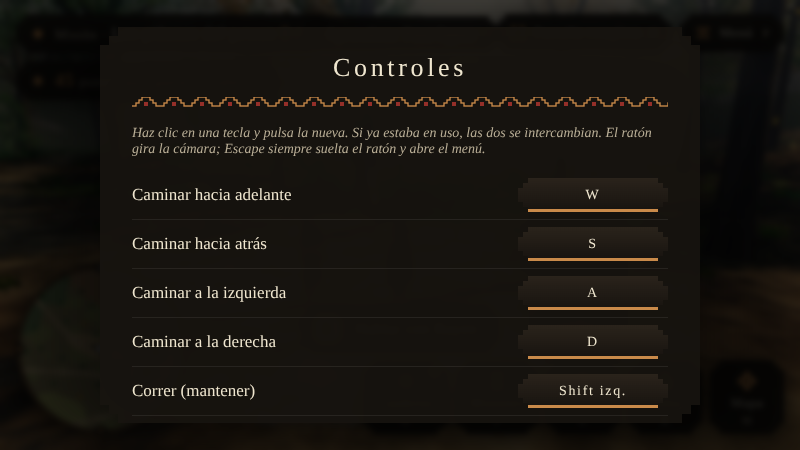
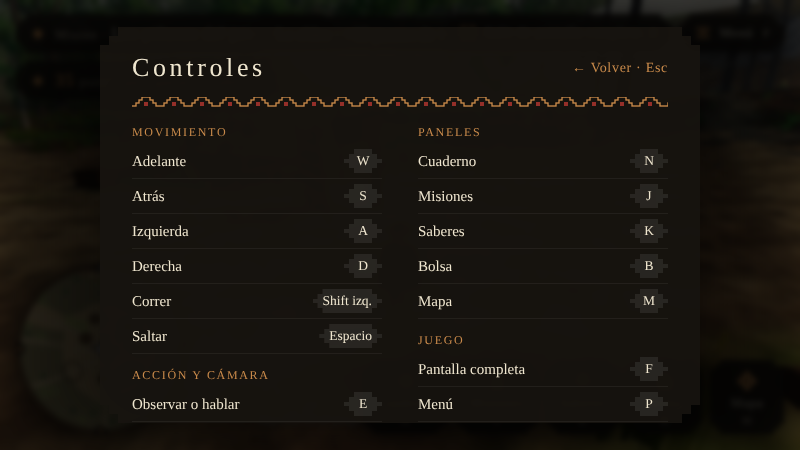
Controles más simples y Escape que retrocede un nivel
La página de controles pasa a dos columnas con una línea por acción y la tecla como
una tecla pequeña. Escape vuelve de Controles al menú, del menú al juego y cierra los
paneles; al elegir una tecla, cancela.

Claude-Session: https://claude.ai/code/session_014kb8iuWt13Nr2guzxgq7A9

diff --git a/src/main.js b/src/main.js
@@ -59,18 +59,22 @@ function enter() {
 // ---------- opciones (se guardan en este navegador) ----------
 const opts = Object.assign({ calidad: 'auto', detalle: '1', sens: 1, inv: false, mini: true }, JSON.parse(localStorage.getItem('leftraru.opciones') || '{}'));
 // teclas: cada acción tiene una tecla que se puede cambiar en Menú → Controles
-const ACTIONS = [['adelante', 'Caminar hacia adelante', 'KeyW'], ['atras', 'Caminar hacia atrás', 'KeyS'], ['izquierda', 'Caminar a la izquierda', 'KeyA'], ['derecha', 'Caminar a la derecha', 'KeyD'], ['correr', 'Correr (mantener)', 'ShiftLeft'], ['saltar', 'Saltar', 'Space'],
-  ['observar', 'Observar o hablar', 'KeyE'], ['camIzq', 'Girar la cámara a la izquierda', 'KeyZ'], ['camDer', 'Girar la cámara a la derecha', 'KeyC'], ['cuaderno', 'Abrir el cuaderno', 'KeyN'], ['misiones', 'Abrir las misiones', 'KeyJ'], ['saberes', 'Abrir los saberes', 'KeyK'],
-  ['bolsa', 'Abrir la bolsa', 'KeyB'], ['mapa', 'Abrir el mapa', 'KeyM'], ['pantalla', 'Pantalla completa', 'KeyF'], ['menu', 'Abrir o cerrar el menú', 'KeyP']];
+const ACTIONS = [['adelante', 'Adelante', 'KeyW'], ['atras', 'Atrás', 'KeyS'], ['izquierda', 'Izquierda', 'KeyA'], ['derecha', 'Derecha', 'KeyD'], ['correr', 'Correr', 'ShiftLeft'], ['saltar', 'Saltar', 'Space'],
+  ['observar', 'Observar o hablar', 'KeyE'], ['camIzq', 'Girar a la izquierda', 'KeyZ'], ['camDer', 'Girar a la derecha', 'KeyC'], ['cuaderno', 'Cuaderno', 'KeyN'], ['misiones', 'Misiones', 'KeyJ'], ['saberes', 'Saberes', 'KeyK'],
+  ['bolsa', 'Bolsa', 'KeyB'], ['mapa', 'Mapa', 'KeyM'], ['pantalla', 'Pantalla completa', 'KeyF'], ['menu', 'Menú', 'KeyP']];
 opts.keys = Object.assign(Object.fromEntries(ACTIONS.map(([a, , k]) => [a, k])), opts.keys || {});
 const down = (a) => !!keys[opts.keys[a]], is = (e, a) => e.code === opts.keys[a];
 const keyName = (c) => ({ Space: 'Espacio', ShiftLeft: 'Shift izq.', ShiftRight: 'Shift der.', ControlLeft: 'Ctrl izq.', ControlRight: 'Ctrl der.', AltLeft: 'Alt izq.', AltRight: 'Alt der.', Tab: 'Tab', Enter: 'Enter', Backspace: 'Retroceso', ArrowUp: '↑', ArrowDown: '↓', ArrowLeft: '←', ArrowRight: '→' }[c] || c.replace(/^Key|^Digit/, '').replace(/^Numpad/, 'Num '));
 let rebinding = null;
+const GROUPS = [['Movimiento', ['adelante', 'atras', 'izquierda', 'derecha', 'correr', 'saltar']], ['Acción y cámara', ['observar', 'camIzq', 'camDer']], ['Paneles', ['cuaderno', 'misiones', 'saberes', 'bolsa', 'mapa']], ['Juego', ['pantalla', 'menu']]];
 function drawKeys() {
-  $('ctl-list').innerHTML = ACTIONS.map(([a, label]) => `<div class="opt"><div><b>${label}</b></div><button class="btn keybtn${rebinding === a ? ' wait' : ''}" data-act="${a}">${rebinding === a ? 'Pulsa una tecla…' : keyName(opts.keys[a])}</button></div>`).join('');
+  const label = Object.fromEntries(ACTIONS.map(([a, l]) => [a, l]));
+  $('ctl-list').innerHTML = GROUPS.map(([g, list]) => `<section><h4>${g}</h4>${list.map((a) => `<div class="krow"><span>${label[a]}</span><button class="kcap${rebinding === a ? ' wait' : ''}" data-act="${a}">${rebinding === a ? '…' : keyName(opts.keys[a])}</button></div>`).join('')}</section>`).join('');
+  $('ctl-hint').textContent = rebinding ? `Pulsa la tecla nueva para «${label[rebinding]}». Escape cancela.` : 'Haz clic en una tecla para cambiarla.';
   document.querySelectorAll('[data-key]').forEach((el) => { el.textContent = keyName(opts.keys[el.dataset.key]); });
 }
-function menuPage(pg) { rebinding = null; $('pg-opciones').hidden = pg !== 'opciones'; $('pg-controles').hidden = pg !== 'controles'; if (pg === 'controles') drawKeys(); }
+let page = 'opciones';
+function menuPage(pg) { rebinding = null; page = pg; $('pg-opciones').hidden = pg !== 'opciones'; $('pg-controles').hidden = pg !== 'controles'; if (pg === 'controles') drawKeys(); }
 const detalleInicial = opts.detalle;
 let menuOpen = false, pr = Math.min(devicePixelRatio, 1.5);
 function applyOpts() {
@@ -179,7 +183,7 @@ addEventListener('keydown', (e) => {
   if (e.code === 'Enter') { if (state === 'title') enter(); else if (!talk) cine.skip(); }
   if (is(e, 'pantalla') && !e.repeat) toggleFull();
   if (is(e, 'menu') && !e.repeat && state !== 'cine') { if (ui.open) ui.show(null); setMenu(!menuOpen); return; }
-  if (menuOpen) { if (e.code === 'Escape') setMenu(false); return; }
+  if (menuOpen) { if (e.code === 'Escape') { if (page === 'controles') menuPage('opciones'); else setMenu(false); } return; }
   keys[e.code] = true;
   if (is(e, 'observar') && !e.repeat) interact();
   if (talk) { if (e.code === 'Enter' || e.code === 'Space') interact(); return; }

diff --git a/index.html b/index.html
@@ -117,8 +117,16 @@
   .keys { display: grid; grid-template-columns: auto 1fr; gap: 6px 14px; font-size: 15px; margin: 0; align-items: center; } .keys dt { color: var(--copper); white-space: nowrap; } .keys dd { margin: 0; color: var(--cream); }
   .mrow { display: grid; grid-template-columns: 1fr 1fr; gap: 12px; margin-top: 22px; } .mrow.top { grid-template-columns: 1fr 1fr 1fr; margin: 0 0 6px; } .mrow .btn { padding: 12px 10px; font-size: 15px; }
   body.en-portada #m-portada { display: none; } body.en-portada .mrow.top { grid-template-columns: 1fr 1fr; }
-  .keybtn { min-width: 150px; padding: 8px 14px; font-size: 15px; } .keybtn.wait { background: var(--copper); color: var(--ink); }
-  #ctl-list .opt { padding: 7px 0; }
+  /* controles: dos columnas, una línea por acción y la tecla como una tecla pequeña */
+  #pg-controles .head h2 { text-align: left; }
+  #ctl-list { columns: 2; column-gap: 36px; } #ctl-list section { break-inside: avoid; margin-bottom: 14px; }
+  #ctl-list h4 { margin: 0 0 4px; font-weight: normal; color: var(--copper); letter-spacing: .14em; text-transform: uppercase; font-size: 12px; }
+  .krow { display: flex; justify-content: space-between; align-items: center; padding: 5px 0; font-size: 15px; border-bottom: 1px solid #ffffff0e; }
+  .kcap { border: 0; min-width: 38px; padding: 4px 10px; background: #ffffff14; color: var(--cream); font-size: 13.5px; clip-path: var(--step); transition: background .15s, color .15s; }
+  .kcap:hover { background: #ffffff2a; } .kcap.wait { background: var(--copper); color: var(--ink); }
+  .kfoot { display: flex; justify-content: space-between; align-items: center; gap: 16px; margin-top: 6px; font-size: 13.5px; }
+  .link { border: 0; background: none; color: var(--copper); font-size: 14px; letter-spacing: .05em; padding: 4px 0; } .link:hover { color: var(--cream); }
+  @media (max-width: 620px) { #ctl-list { columns: 1; } }
   .sec2 { margin: 18px 0 4px; font-weight: normal; color: var(--copper); letter-spacing: .14em; text-transform: uppercase; font-size: 14px; }
   .mis { display: grid; grid-template-columns: 44px 1fr; gap: 14px; padding: 12px 14px; margin-top: 8px; background: #ffffff0d; }
   .mis .mk { width: 40px; height: 40px; display: grid; place-items: center; background: var(--copper); color: var(--ink); font-size: 19px; font-weight: bold; clip-path: var(--step); }
@@ -200,10 +208,9 @@
   <div class="opt"><div><b>Empezar de cero</b><small>Borra el cuaderno, los puntos, los saberes y las misiones.</small></div><button id="o-borrar" class="btn">Borrar</button></div>
  </div>
  <div id="pg-controles" hidden>
-  <h2>Controles</h2><div class="greca"></div>
-  <p class="muted how">Haz clic en una tecla y pulsa la nueva. Si ya estaba en uso, las dos se intercambian. El ratón gira la cámara; Escape siempre suelta el ratón y abre el menú.</p>
+  <div class="head"><h2>Controles</h2><button id="ctl-volver" class="link">← Volver · Esc</button></div><div class="greca"></div>
   <div id="ctl-list"></div>
-  <div class="mrow"><button id="ctl-volver" class="btn main">Volver<small>Al menú</small></button><button id="ctl-reset" class="btn">Restablecer<small>Teclas originales</small></button></div>
+  <div class="kfoot"><span id="ctl-hint" class="muted"></span><button id="ctl-reset" class="link">Restablecer</button></div>
  </div>
 </div></div>
 <script type="module" src="/src/main.js"></script>
